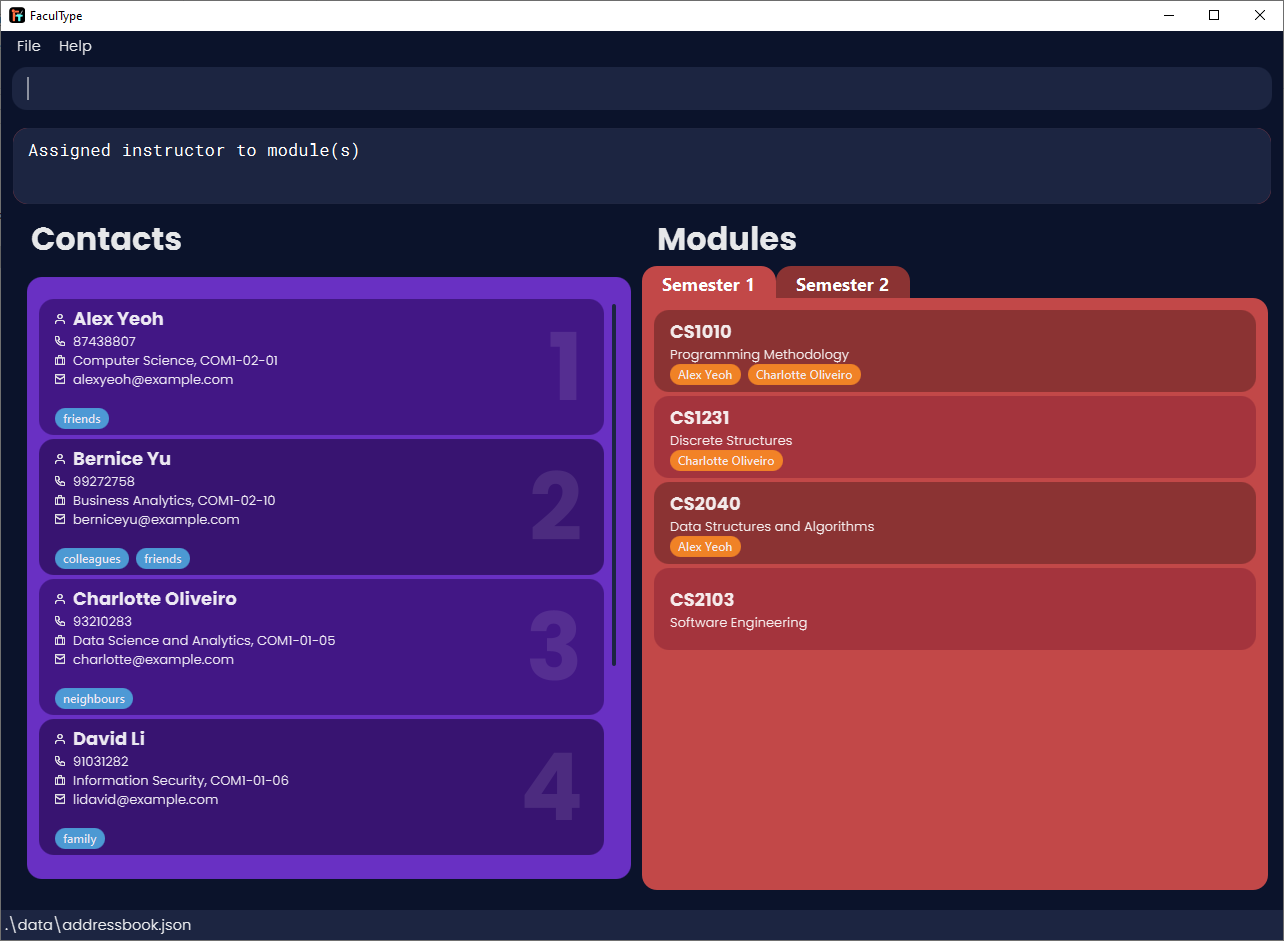
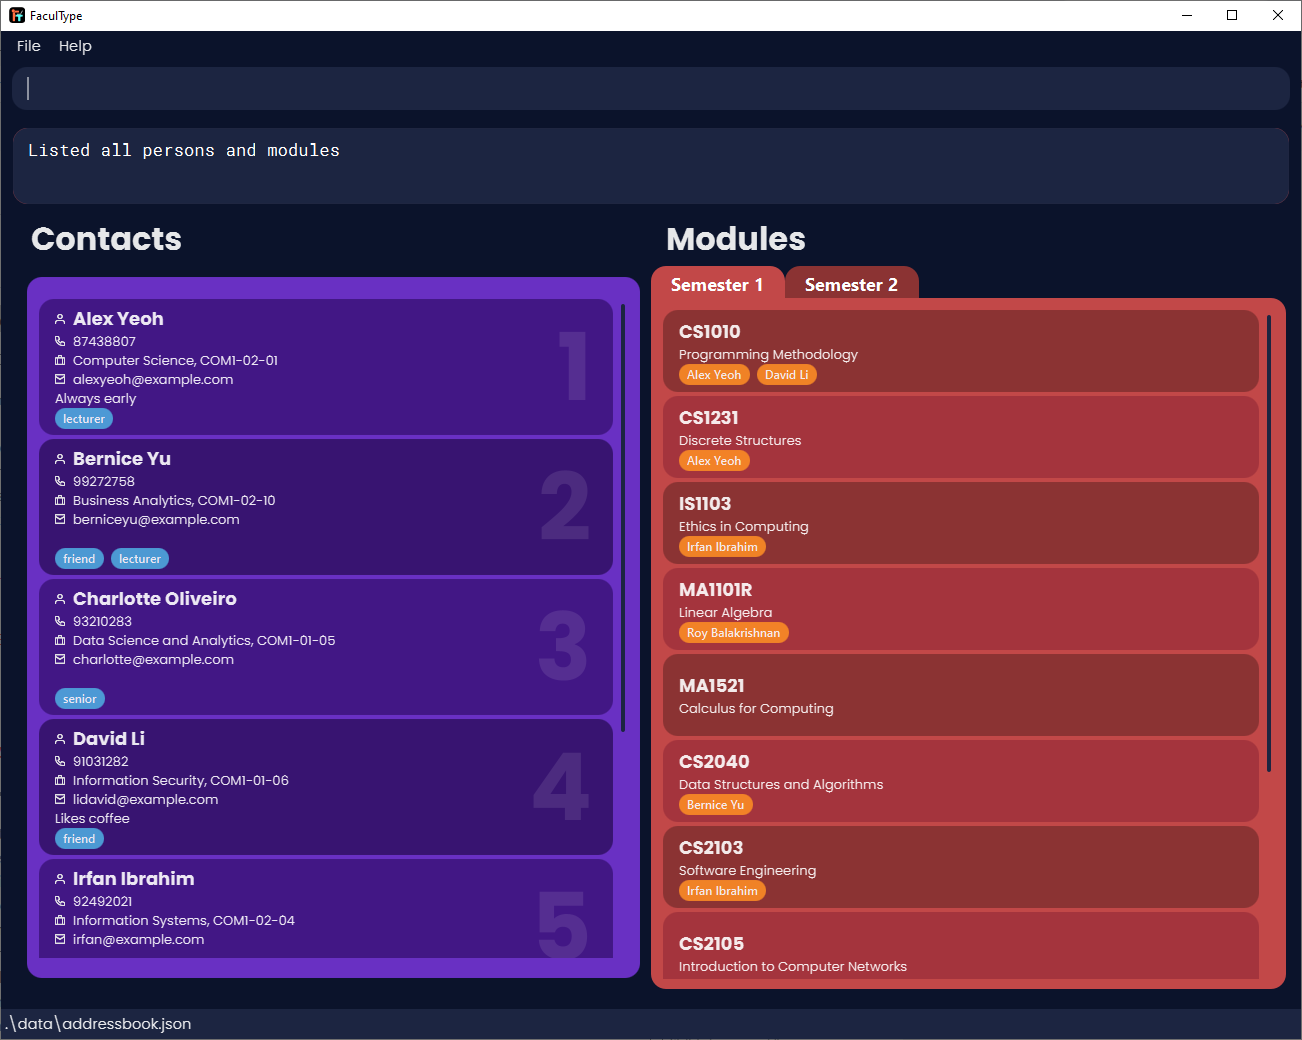
Update docs

diff --git a/src/main/java/seedu/address/model/util/SampleDataUtil.java b/src/main/java/seedu/address/model/util/SampleDataUtil.java
@@ -29,22 +29,22 @@ public class SampleDataUtil {
         return new Person[] {
             new Person(new Name("Alex Yeoh"), new Phone("87438807"), new Email("alexyeoh@example.com"),
                 new Department("Computer Science"), new Office("COM1-02-01"), EMPTY_REMARK,
-                getTagSet("friends")),
+                getTagSet("lecturer")),
             new Person(new Name("Bernice Yu"), new Phone("99272758"), new Email("berniceyu@example.com"),
                 new Department("Business Analytics"), new Office("COM1-02-10"), EMPTY_REMARK,
-                getTagSet("colleagues", "friends")),
+                getTagSet("lecturer", "friend")),
             new Person(new Name("Charlotte Oliveiro"), new Phone("93210283"), new Email("charlotte@example.com"),
                 new Department("Data Science and Analytics"), new Office("COM1-01-05"), EMPTY_REMARK,
-                getTagSet("neighbours")),
+                getTagSet("senior")),
             new Person(new Name("David Li"), new Phone("91031282"), new Email("lidavid@example.com"),
                 new Department("Information Security"), new Office("COM1-01-06"), EMPTY_REMARK,
-                getTagSet("family")),
+                getTagSet("friend")),
             new Person(new Name("Irfan Ibrahim"), new Phone("92492021"), new Email("irfan@example.com"),
                 new Department("Information Systems"), new Office("COM1-02-04"), EMPTY_REMARK,
-                getTagSet("classmates")),
+                getTagSet("senior", "friend")),
             new Person(new Name("Roy Balakrishnan"), new Phone("92624417"), new Email("royb@example.com"),
                 new Department("Computer Engineering"), new Office("COM1-02-05"), EMPTY_REMARK,
-                getTagSet("colleagues"))
+                getTagSet("associate"))
         };
     }
 
@@ -52,8 +52,15 @@ public class SampleDataUtil {
         return new Module[] {
             new Module(new ModuleCode("CS1010"), new ModuleName("Programming Methodology")),
             new Module(new ModuleCode("CS1231"), new ModuleName("Discrete Structures")),
+            new Module(new ModuleCode("IS1103"), new ModuleName("Ethics in Computing")),
+            new Module(new ModuleCode("MA1101R"), new ModuleName("Linear Algebra")),
+            new Module(new ModuleCode("MA1521"), new ModuleName("Calculus for Computing")),
             new Module(new ModuleCode("CS2040"), new ModuleName("Data Structures and Algorithms")),
             new Module(new ModuleCode("CS2103"), new ModuleName("Software Engineering")),
+            new Module(new ModuleCode("CS2105"), new ModuleName("Introduction to Computer Networks")),
+            new Module(new ModuleCode("CS3203"), new ModuleName("Software Engineering Project")),
+            new Module(new ModuleCode("IS2102"), new ModuleName(
+                    "Enterprise Systems Architecture and Design")),
         };
     }
 
@@ -63,6 +70,11 @@ public class SampleDataUtil {
             new Module(new ModuleCode("CS1231"), new ModuleName("Discrete Structures")),
             new Module(new ModuleCode("CS2030"), new ModuleName("Programming Methodology II")),
             new Module(new ModuleCode("CS2102"), new ModuleName("Database Systems")),
+            new Module(new ModuleCode("CS2106"), new ModuleName("Introduction to Operating Systems")),
+            new Module(new ModuleCode("IS2101"), new ModuleName("Business and Technical Communication")),
+            new Module(new ModuleCode("ST2334"), new ModuleName("Probability and Statistics")),
+            new Module(new ModuleCode("CS3210"), new ModuleName("Parallel Computing")),
+            new Module(new ModuleCode("CS3230"), new ModuleName("Design and Analysis of Algorithms")),
         };
     }
 

diff --git a/docs/UserGuide.md b/docs/UserGuide.md
@@ -7,6 +7,22 @@ FaculType is a **desktop app** for managing **faculty members and their modules*
 
 --------------------------------------------------------------------------------------------------------------------
 
+## Quick start
+
+1. Ensure you have Java `11` or above installed in your Computer.
+
+1. Download the latest `FaculType.jar` from [here](https://github.com/AY2021S1-CS2103-T14-1/tp/releases).
+
+1. Copy the file to the folder you want to use as the _home folder_ for FaculType.
+
+1. Double-click the file to start the app. The GUI similar to the below should appear in a few seconds. Note how the app contains some sample data (might be different from below).<br>
+   ![Ui](images/Ui.png)
+
+1. Type the command in the command box and press Enter to execute it. e.g. typing **`help`** and pressing Enter will open the help window.<br>
+
+1. Refer to the [Features](#features) below for details of each command.
+
+--------------------------------------------------------------------------------------------------------------------
 ## Features
 
 <div markdown="block" class="alert alert-info">

diff --git a/README.md b/README.md
@@ -7,8 +7,7 @@
 **FaculType** is a desktop app for managing faculty members and their modules, optimized for use via a Command Line
  Interface (CLI) while still having the benefits of a Graphical User Interface (GUI).
  
- In the current version, **FaculType** targets deans of universities who are responsible for managing professors and
-  the module they teach.
+ In the current version, **FaculType** targets faculty leaders of universities who are responsible for managing faculty members and modules.
 
 # Site Map
 * [User Guide](https://github.com/AY2021S1-CS2103-T14-1/tp/blob/master/docs/UserGuide.md)
